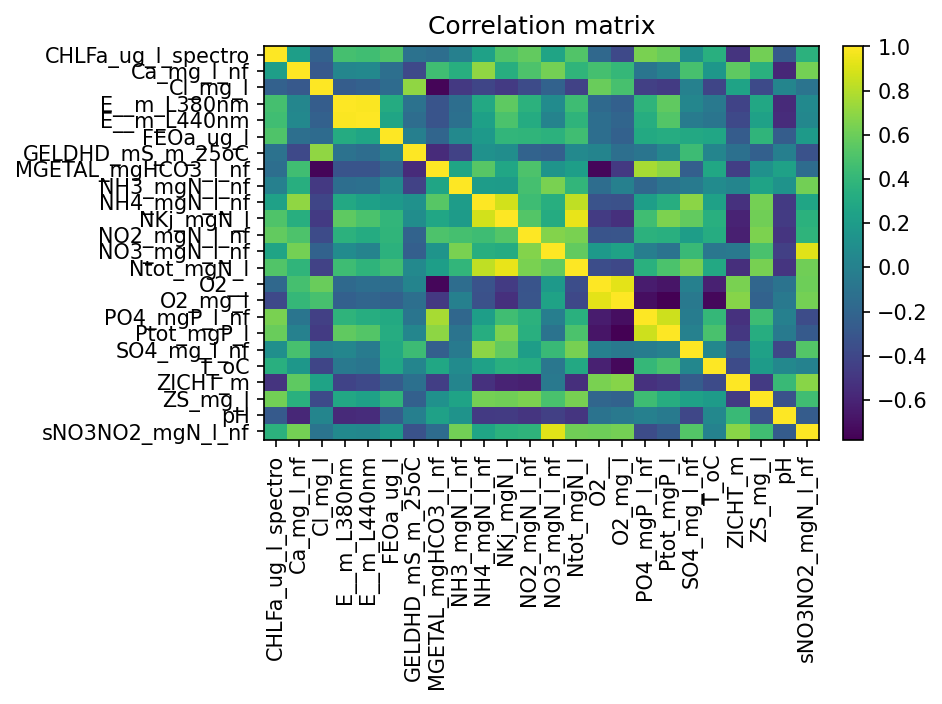
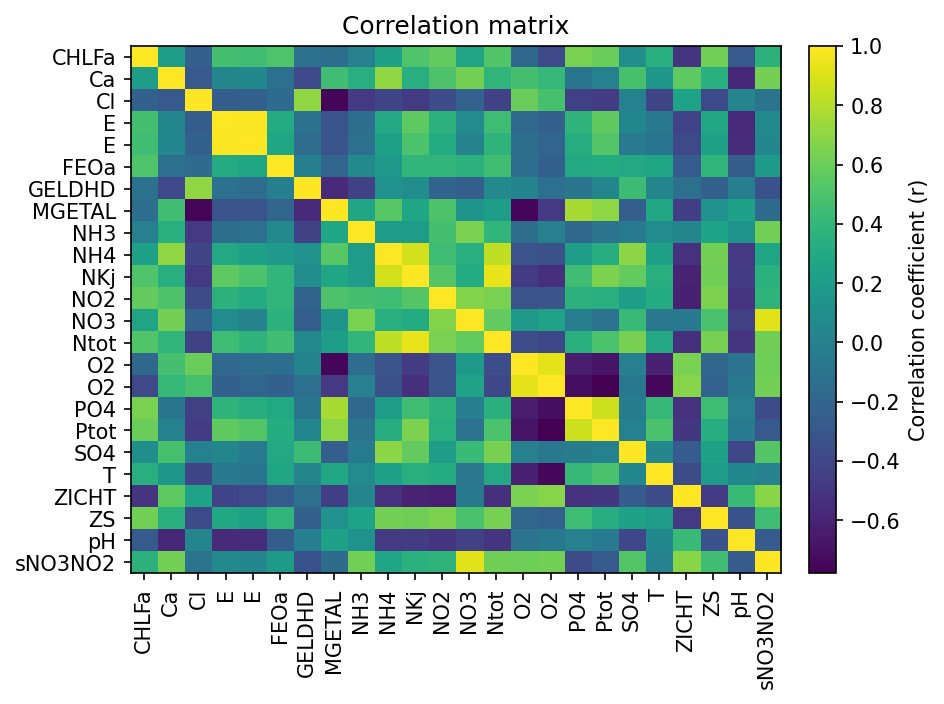
change in corr

diff --git a/data/corr.py b/data/corr.py
@@ -207,14 +207,19 @@ def compute_vif(X: pd.DataFrame) -> pd.DataFrame:
 # ---------- Plot heatmap (matplotlib only) ----------
 
 def plot_corr_heatmap(corr: pd.DataFrame, out_path: str):
+    def shorten(label: str) -> str:
+        label = str(label)
+        if "_" in label:    # pak stuk voor de eerste underscore
+            label = label.split("_")[0]
+        return label[:15]   # maximaal 15 tekens
+
     fig, ax = plt.subplots()
     im = ax.imshow(corr.to_numpy(), aspect='auto', interpolation='nearest')
-    ax.set_xticks(np.arange(corr.shape[1]))
-    ax.set_yticks(np.arange(corr.shape[0]))
-    ax.set_xticklabels(list(corr.columns), rotation=90)
-    ax.set_yticklabels(list(corr.index))
+    ax.set_xticks(np.arange(corr.shape[1])); ax.set_yticks(np.arange(corr.shape[0]))
+    ax.set_xticklabels([shorten(c) for c in corr.columns], rotation=90)
+    ax.set_yticklabels([shorten(i) for i in corr.index])
     ax.set_title("Correlation matrix")
-    fig.colorbar(im, ax=ax, fraction=0.046, pad=0.04)
+    fig.colorbar(im, ax=ax, fraction=0.046, pad=0.04, label="Correlation coefficient (r)")
     fig.tight_layout()
     plt.savefig(out_path, dpi=150, bbox_inches="tight")
     plt.close(fig)
